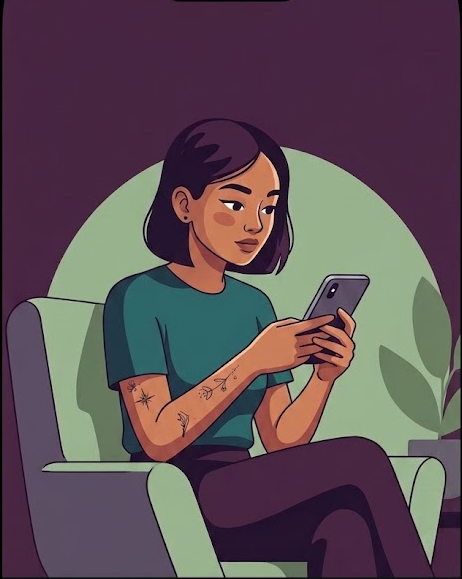
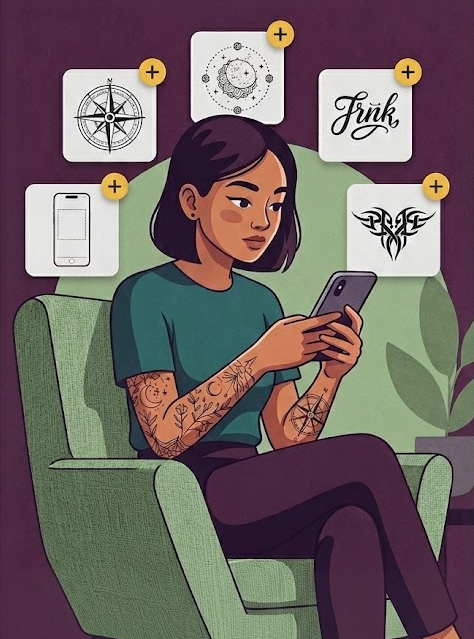
Add pan-to-explore on the body canvas, restyle the upload hero
Dragging outside the tattoo now pans the view (drag on the tattoo still
moves it), with the existing reset button returning to the default view.
Also stretches the upload screen's hero image to fill the frame instead
of a boxed thumbnail.

diff --git a/web/src/components/PlaceCanvas.tsx b/web/src/components/PlaceCanvas.tsx
@@ -174,6 +174,10 @@ export function PlaceCanvas({
   // from fighting over the same gesture.
   const pointers = useRef(new Map<number, { x: number; y: number }>());
   const dragStart = useRef<{ x: number; y: number } | null>(null);
+  // A single-finger drag either moves the tattoo (press starts on it) or pans the
+  // view (press starts anywhere else on the body) — set once per drag, at pointerdown.
+  const dragMode = useRef<"tattoo" | "pan" | null>(null);
+  const tattooBox = useRef<HTMLDivElement>(null);
   const pinchStart = useRef<{
     dist: number; zoom: number; pan: { x: number; y: number };
     mid: { x: number; y: number };
@@ -187,6 +191,9 @@ export function PlaceCanvas({
     try { (e.currentTarget as HTMLElement).setPointerCapture(e.pointerId); } catch {}
     if (pointers.current.size === 1) {
       dragStart.current = { x: e.clientX, y: e.clientY };
+      const r = tattooBox.current?.getBoundingClientRect();
+      const inside = !!r && e.clientX >= r.left && e.clientX <= r.right && e.clientY >= r.top && e.clientY <= r.bottom;
+      dragMode.current = inside ? "tattoo" : "pan";
     } else if (pointers.current.size === 2) {
       dragStart.current = null;
       const [a, b] = [...pointers.current.values()];
@@ -212,6 +219,13 @@ export function PlaceCanvas({
       });
       return;
     }
+    if (dragStart.current && dragMode.current === "pan") {
+      const dx = e.clientX - dragStart.current.x;
+      const dy = e.clientY - dragStart.current.y;
+      dragStart.current = { x: e.clientX, y: e.clientY };
+      setPan((p) => ({ x: p.x + dx, y: p.y + dy }));
+      return;
+    }
     if (dragStart.current) {
       const r = host.current!.querySelector(".stage")!.getBoundingClientRect();
       const dx = ((e.clientX - dragStart.current.x) / r.width) * vb[2];
@@ -227,7 +241,7 @@ export function PlaceCanvas({
   function surfaceUp(e: React.PointerEvent) {
     pointers.current.delete(e.pointerId);
     if (pointers.current.size < 2) pinchStart.current = null;
-    if (pointers.current.size === 0) dragStart.current = null;
+    if (pointers.current.size === 0) { dragStart.current = null; dragMode.current = null; }
   }
 
   // ---- Figma-style corner handles ----
@@ -339,6 +353,7 @@ export function PlaceCanvas({
             />
             {box.w > 0 && (
               <div
+                ref={tattooBox}
                 className="pointer-events-none absolute"
                 style={{ left: corners.tl.x, top: corners.tl.y, width: wPx, height: hPx, border: "1.5px solid #f5c446" }}
               >
@@ -370,7 +385,7 @@ export function PlaceCanvas({
 
         {(zoom !== 1 || pan.x !== 0 || pan.y !== 0) && (
           <div className="absolute bottom-2.5 left-2.5 z-10 overflow-hidden rounded-xl border" style={{ borderColor: "rgba(255,255,255,0.1)" }}>
-            <ZoomBtn onClick={resetView} label="Reset zoom">⟲</ZoomBtn>
+            <ZoomBtn onClick={resetView} label="Return to default view">⟲</ZoomBtn>
           </div>
         )}
 

diff --git a/web/src/app/page.tsx b/web/src/app/page.tsx
@@ -72,27 +72,29 @@ export default function Home() {
         <Toast message="Image uploaded" show={toast} />
 
         <div
-          className="relative flex min-h-0 flex-1 items-center justify-center overflow-hidden bg-[#111315] p-7"
+          className="relative flex min-h-0 flex-1 flex-col overflow-hidden bg-[#111315]"
           style={{ marginTop: "max(20px, env(safe-area-inset-top))" }}
         >
-          <div className="flex w-full max-w-[260px] flex-col items-center">
-            {/* eslint-disable-next-line @next/next/no-img-element */}
-            <img
-              src={withBasePath("/landing/hero.png")}
-              alt="Person reviewing tattoo ideas on their phone"
-              className="h-[208px] w-full rounded-2xl object-cover"
-            />
-            <h1
-              className="mt-6 text-center text-[24px] leading-8 text-white"
-              style={{ fontFamily: "var(--font-gabarito)", letterSpacing: "-0.96px" }}
-            >
-              Upload your tattoo design
-            </h1>
-            <p className="mt-2 text-center text-[14px] leading-[22.75px] text-white/50">
-              Choose an image to unlock placement, scale, and contour tools.
-            </p>
-            <div className="mt-6 w-full">
-              <UploadCard variant="dark" onImage={(img) => handleImage(img)} />
+          {/* eslint-disable-next-line @next/next/no-img-element */}
+          <img
+            src={withBasePath("/landing/hero.png")}
+            alt="Person reviewing tattoo ideas on their phone"
+            className="w-full flex-1 object-cover"
+          />
+          <div className="flex w-full flex-col items-center px-7 pb-7 pt-6">
+            <div className="w-full max-w-[260px]">
+              <h1
+                className="text-center text-[24px] leading-8 text-white"
+                style={{ fontFamily: "var(--font-gabarito)", letterSpacing: "-0.96px" }}
+              >
+                Upload your tattoo design
+              </h1>
+              <p className="mt-2 text-center text-[14px] leading-[22.75px] text-white/50">
+                Choose an image to unlock placement, scale, and contour tools.
+              </p>
+              <div className="mt-6 w-full">
+                <UploadCard variant="dark" onImage={(img) => handleImage(img)} />
+              </div>
             </div>
           </div>
         </div>
